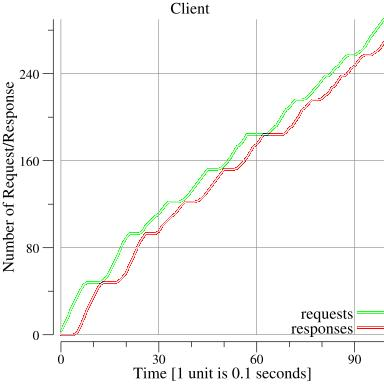
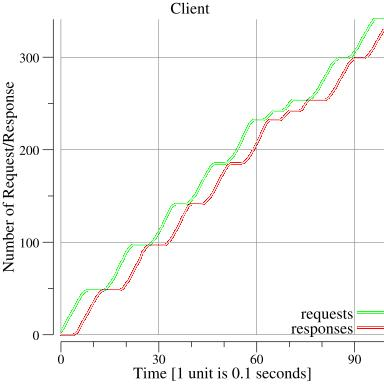
Test Case 3,4 : Spike in LB and Servers

diff --git a/loadbalancer.go b/loadbalancer.go
@@ -232,7 +232,7 @@ func (lb *LoadBalancer) drawGraph() {
 	p.X.Label.Text = "Time [1 unit is 0.1 seconds]"
 	p.Y.Label.Text = "Load Balancer Requests"
 
-	numPeriods := 500
+	numPeriods := 200
 	pts := make(plotter.XYs, numPeriods)
 
 	p.Add(plotter.NewGrid())
@@ -992,8 +992,8 @@ func counter_poller(lb *LoadBalancer) {
 		diff := time.Now().Sub(timeSpike)
 		if diff.Seconds() > 15 && flag == 0 && lb.id==lb.primary{ //TODO: Find a timeout
 			fmt.Println("Lbid and primary is",lb.id,lb.primary)
-			lb.curLoad1[lb.id] += 3 *lb.load1[0]
-			lb.load1[0] = 4 * lb.load1[0]
+			lb.curLoad1[lb.id] *= 3
+			//lb.load1[0] = 2 * lb.load1[0]
 			fmt.Println("******************************")
 			fmt.Println("SPIKING***********************")
 			fmt.Println("******************************")
